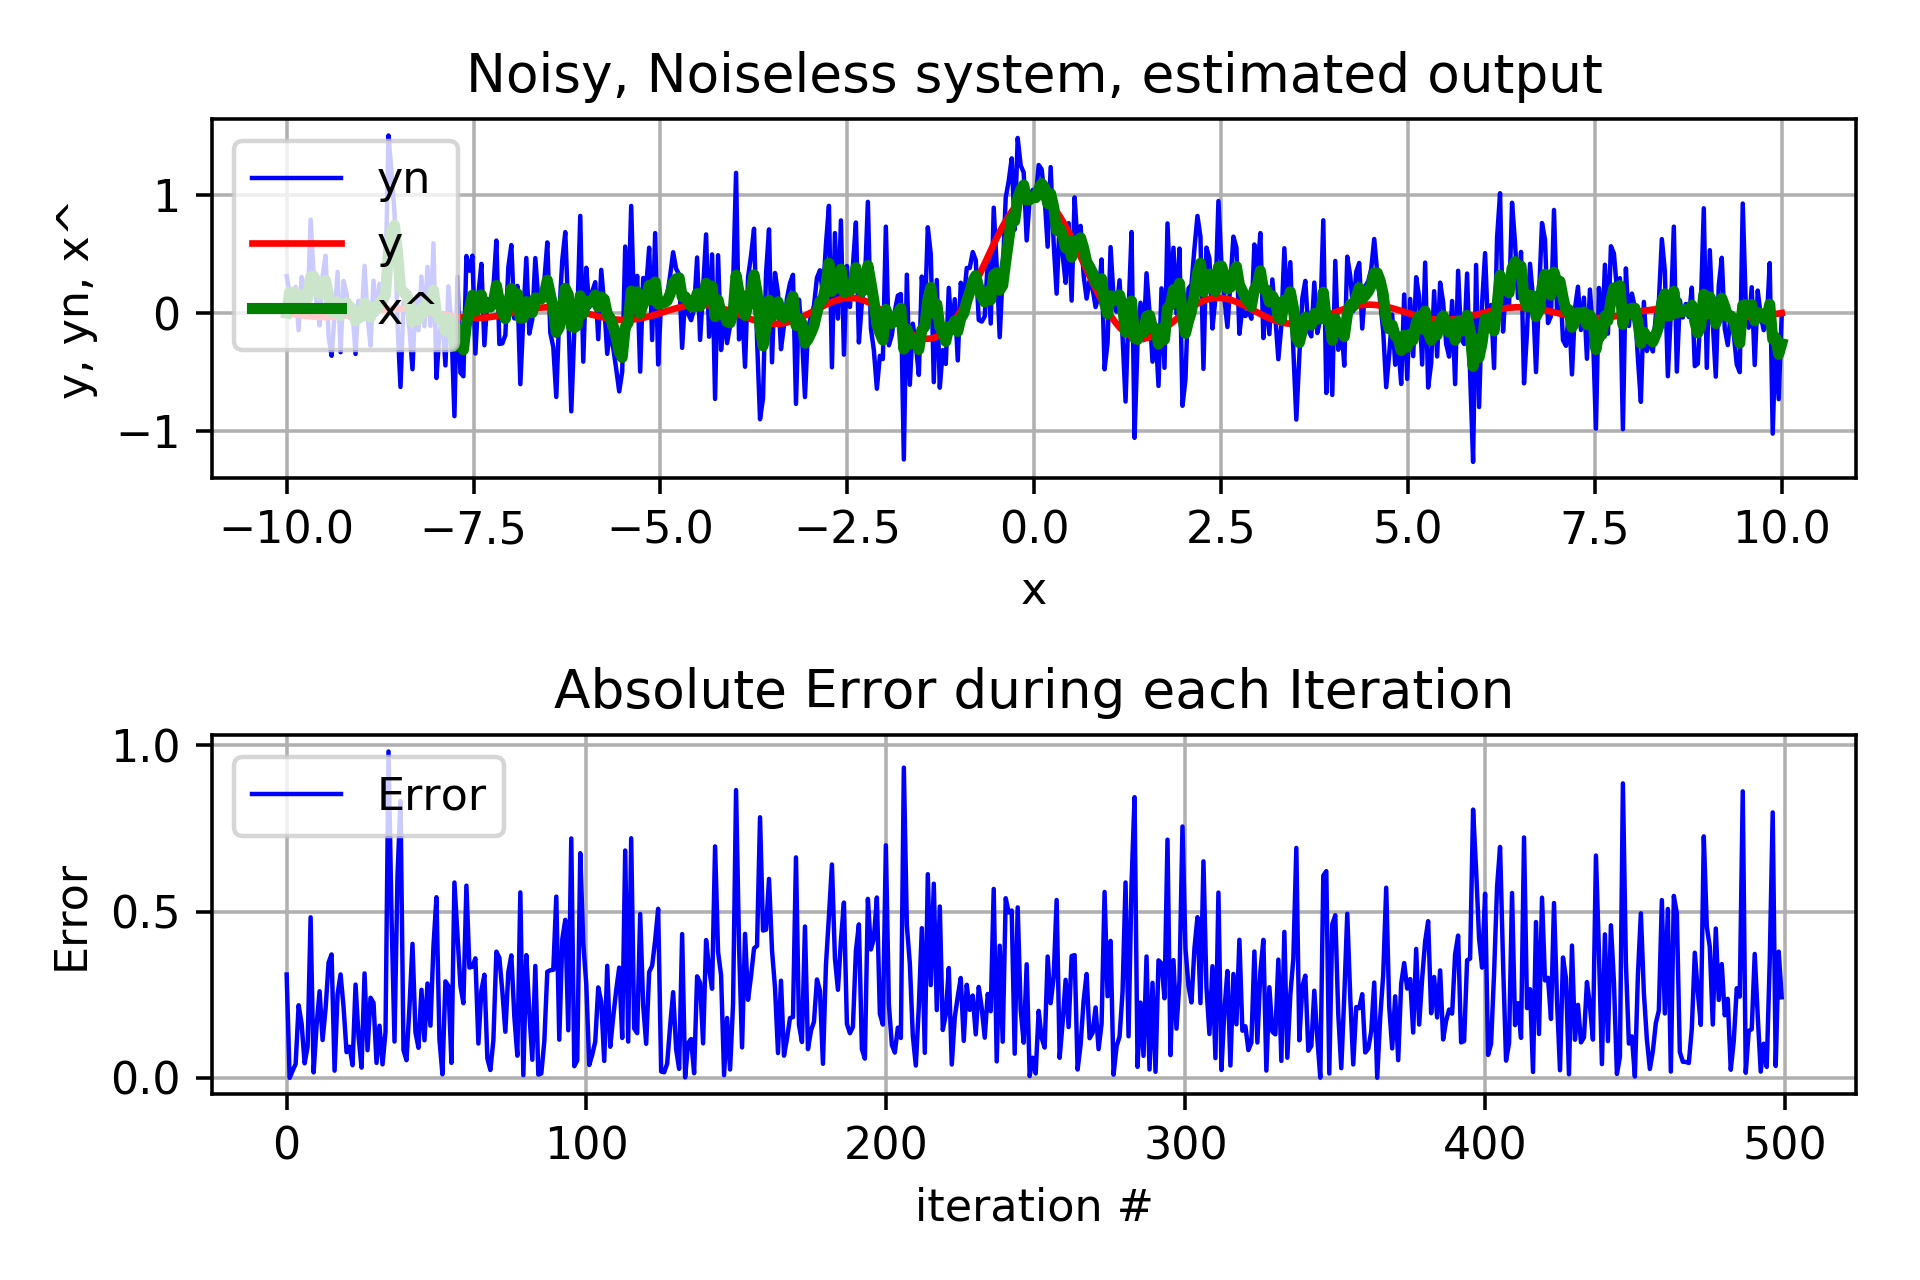
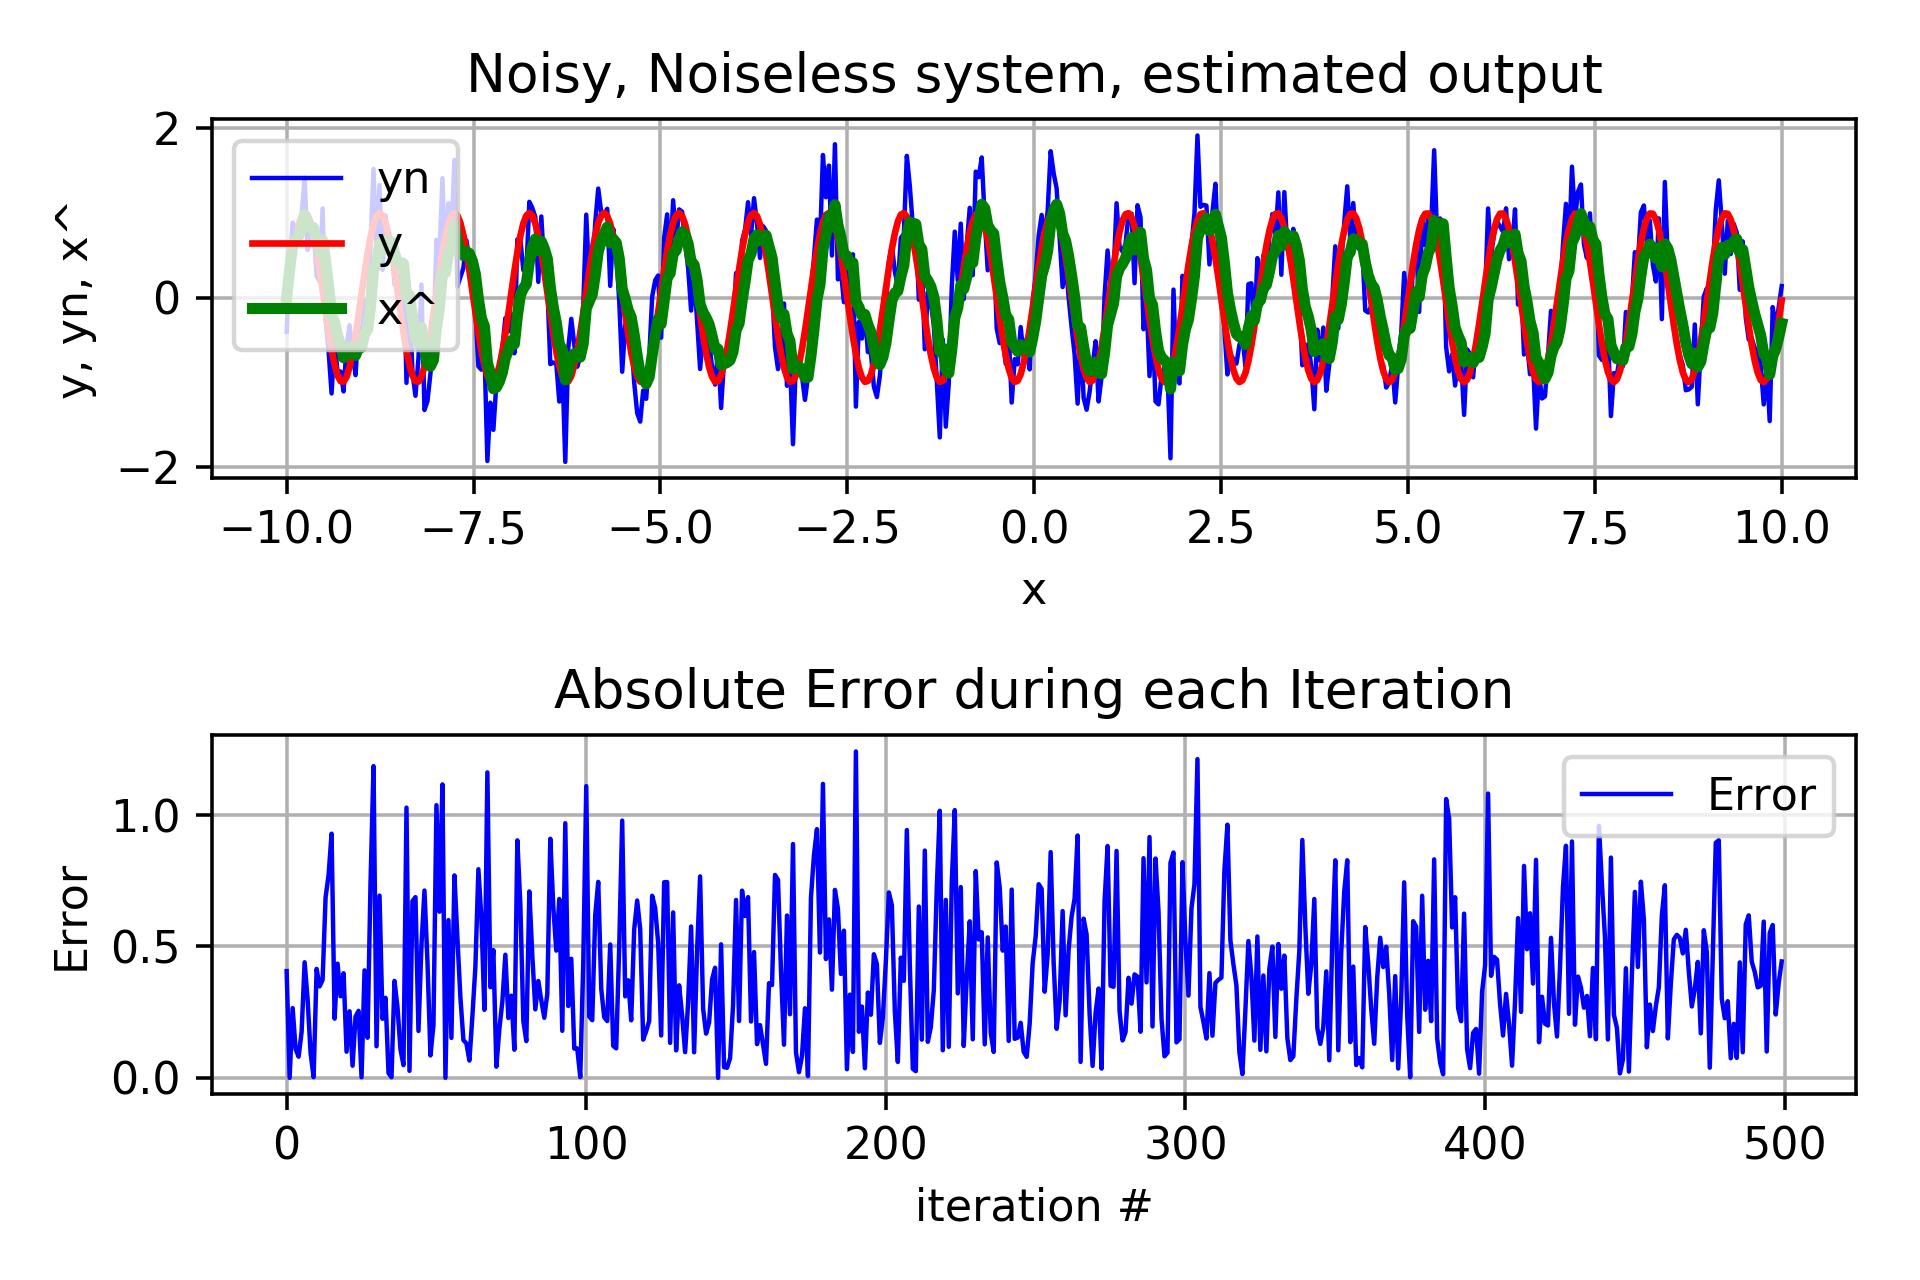
changes for testing

diff --git a/KalmanFilter/KalmanFiltering.py b/KalmanFilter/KalmanFiltering.py
@@ -18,8 +18,8 @@ x = np.linspace(-10,10,lenx)
 
 #system output: trying different nonlinear and linear system
 #y = 5*np.ones(lenx)
-y = np.sinc(x)
-#y = np.sin(2*3.14*x)
+#y = np.sinc(x)
+y = np.sin(2*3.14*x)
 #y = np.cos(2*3.14*x)
 #y = np.exp(x)
 #y = np.exp(x) + np.exp(-x)

diff --git a/ConfusionMatrixMultiClass/confusionMat.py b/ConfusionMatrixMultiClass/confusionMat.py
@@ -6,7 +6,7 @@ Created on Sat May 11 23:39:24 2019
 """
 import csv
 import numpy as np
-data_path ='..\outcome.csv'
+data_path ='outcome.csv'
 with open(data_path, 'r') as f:
     reader = csv.reader(f, delimiter=',')
     # get header from first row
